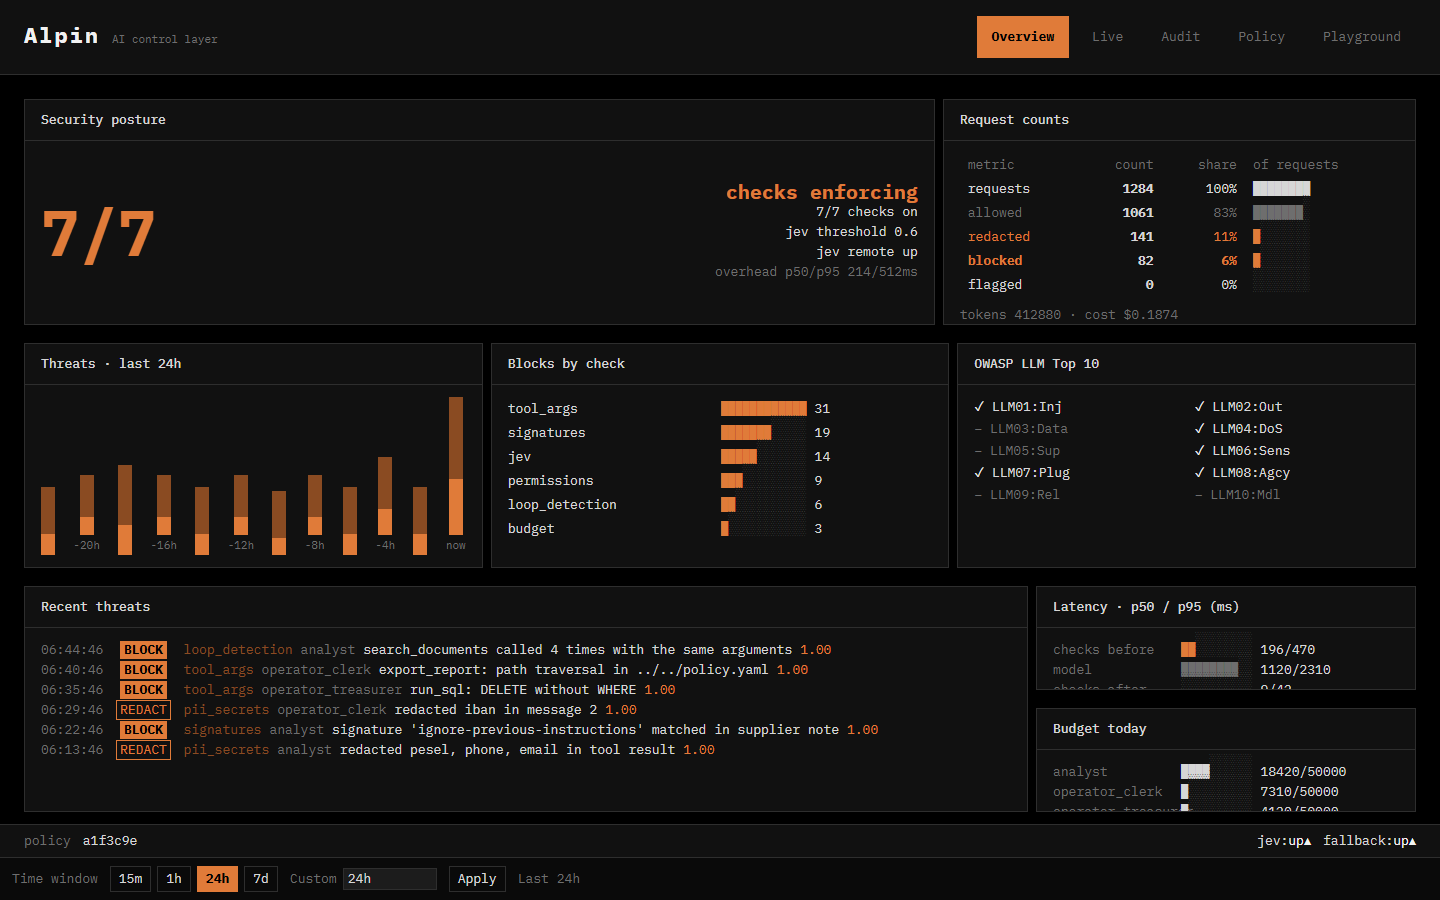
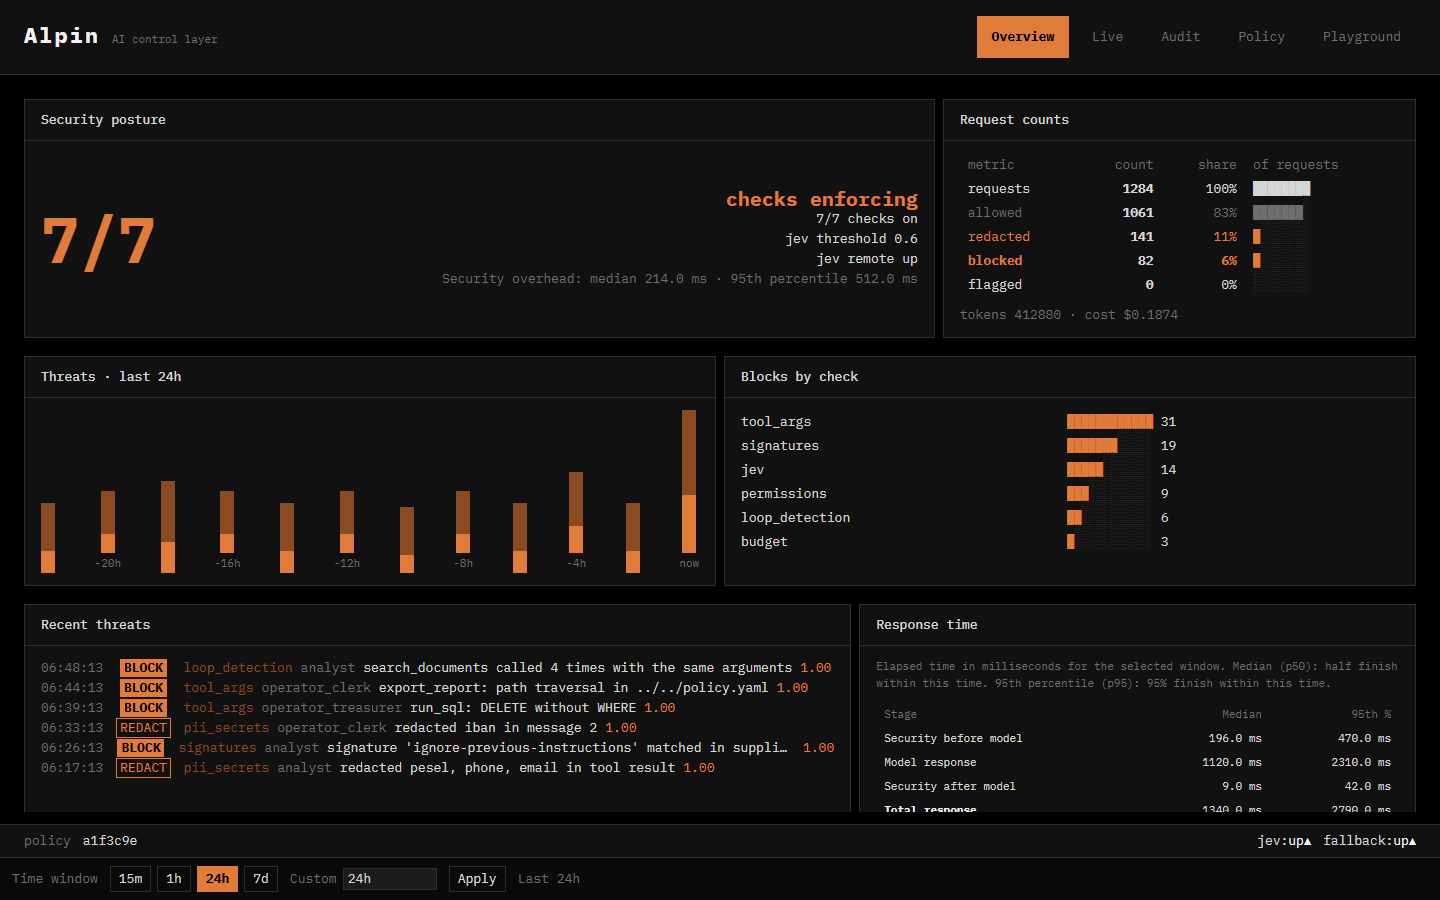
docs: update README and screenshots for the new dashboard
Describes each tab after the usability rework (no OWASP table,
latency in median/p95 ms, audit grouped by request with cost,
Enter to send in the playground) and retakes the screenshots.

Changed region(s): [[0.0, 0.3733, 0.9688, 0.9022], [0.5, 0.1867, 0.6562, 0.3111], [0.0312, 0.2178, 0.125, 0.3111]]

diff --git a/README.md b/README.md
@@ -6,7 +6,7 @@
 client = OpenAI(base_url="http://localhost:8000/v1", api_key=user_jwt)  # the whole integration
 ```
 
-![Dashboard overview: security posture, threats over time, blocks by check, OWASP LLM Top 10 coverage](docs/screenshots/overview.png)
+![Dashboard overview: security posture, request counts, threats over time, blocks by check, recent threats and response time](docs/screenshots/overview.png)
 
 **Read next:** [the pitch](docs/pitch.md) · [architecture](docs/architecture.md) · [configuration guide](docs/configuration.md) · [API contracts](contracts/README.md)
 
@@ -21,6 +21,16 @@ docker compose run --rm test-app --scenario all    # attacks a two-agent treasur
 ```
 
 Then open the dashboard at **<http://localhost:5173>** and watch the decisions arrive on the **Live** tab.
+
+## The dashboard in one minute
+
+| Tab | What it answers |
+|---|---|
+| **Overview** | Is the system safe right now? Shows enforcing checks, allowed / redacted / blocked counts, threats over time, which checks block most, response time as median and 95th percentile in ms (security vs. model), and today's tokens and cost per user. |
+| **Live** | What is happening this second? Each agent step is a card: checks before the model, what the model asked for, checks on its reply, and the timing. |
+| **Audit** | Why was this decided? Rows are grouped by request. Rule checks show *Passed / Redacted / Blocked*, and Jev shows its risk score. Selecting a request opens its decision trace with the total cost. |
+| **Policy** | What are the rules? A live YAML editor that validates before saving, plus the active-checks matrix and the Jev threshold. |
+| **Playground** | What happens if I try to attack it? Chat through the layer (Enter to send) with attack presets and see every check's verdict. The conversation is kept while you switch tabs. |
 
 ## How it works
 
@@ -54,14 +64,14 @@ flowchart LR
 - **Policy is the only source of behaviour.** Everything lives in one YAML file. It is validated and hot-reloaded, and a bad edit is rejected while the old policy keeps running.
 - **Agents don't crash.** A blocked request gets a normal OpenAI-format reply that explains why.
 
-## What the judges can see
+## Screens
 
 | | |
 |---|---|
-| ![Live view](docs/screenshots/live.png) | **Live.** Every agent step as it happens: the checks before the model, what the model asked for, the checks on its reply, and where the time went. |
-| ![Audit log](docs/screenshots/audit.png) | **Audit.** The append-only log of every decision. Select a row to see the request's full decision trace. Export it as JSON or CSV. |
-| ![Policy editor](docs/screenshots/policy.png) | **Policy.** Edit the live policy in the browser. It is validated before it is applied, and a broken edit is rejected with field-level errors. |
-| ![Playground](docs/screenshots/playground.png) | **Playground.** Chat through the layer with built-in attack presets, and see which checks fired and why. |
+| ![Live view](docs/screenshots/live.png) | **Live.** Agent steps as they happen. A `run_sql` call with `DELETE` and no `WHERE` is blocked by `tool_args` before the agent can run it. |
+| ![Audit log](docs/screenshots/audit.png) | **Audit.** Decisions grouped by request. The selected request's trace shows which check blocked it, why, and what the request cost. |
+| ![Policy editor](docs/screenshots/policy.png) | **Policy.** The live policy in the browser. It is validated before it is applied, and a broken edit is rejected with field-level errors. |
+| ![Playground](docs/screenshots/playground.png) | **Playground.** A prompt injection stopped at the input checkpoint by `signatures`. The model is never called. |
 
 The screenshots use sample data that mirrors a `test-app --scenario all` run. To regenerate them, see [Screenshots](#screenshots).
 
